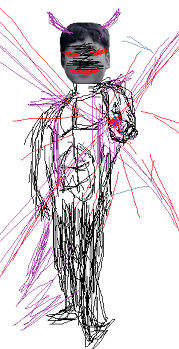
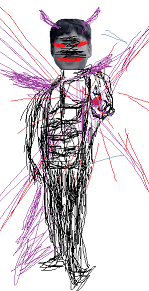
구현 : Intro화면에 Z로고 추가 & About Page 업뎃 & 규동몬 복근 강화 목적 : UI 친근함주기

diff --git a/src/pages/About.js b/src/pages/About.js
@@ -13,8 +13,10 @@ class About extends React.Component {
     const monsters = {
       쥐: require('../images/ratidle.gif'),
       좀비: require('../images/zombieidle.gif'),
+      슬라임: require('../images/moveslime.gif'),
       늑대인간: require('../images/wolfidle.gif'),
-      규동몬: require('../images/gyudongmon.gif')
+      규동몬: require('../images/gyudongmon.gif'),
+      제믹스팀: require('../images/zemixTeam.gif')
     };
 
     return (
@@ -24,7 +26,14 @@ class About extends React.Component {
           height: '600px'
         }}
       >
-        <br />
+        <h4
+          style={{
+            // position: 'absolute',
+            textAlign: 'center'
+          }}
+        >
+          게임 소개
+        </h4>
         <div
           style={{
             // color: 'white',
@@ -34,38 +43,76 @@ class About extends React.Component {
           [마왕] 규동몬의 횡포로 세계가 위험에 빠졌습니다. 전설의 제미소드를
           완성하고 규동몬을 처치해주세요!
         </div>
-        <h3
+        <h4
           style={{
             // position: 'absolute',
             textAlign: 'center'
           }}
         >
           등장인물 소개
-        </h3>
+        </h4>
         <div
           style={{
             position: 'absolute',
-            top: '20%',
-            left: '10%'
+            top: '20%'
+            // left: '10%'
           }}
         >
           <img src={player} alt="" />
           <img src={monsters['쥐']} alt="" />
           <img src={monsters['좀비']} alt="" />
+          <img src={monsters['슬라임']} alt="" />
           <img src={monsters['늑대인간']} alt="" />
           <img src={monsters['규동몬']} alt="" />
           <div />
         </div>
-
+        <h4
+          style={{
+            position: 'absolute',
+            textAlign: 'center',
+            top: '70%',
+            left: '45%'
+          }}
+        >
+          제작자의 말
+        </h4>
         <div
           style={{
             position: 'absolute',
-            left: '5%',
-            bottom: '5%'
+            // left: '%',
+
+            bottom: '-3%'
             // color: 'white'
           }}
         >
-          제작 : Team Zemix
+          <img src={monsters['제믹스팀']} alt="" />
+        </div>
+        <div
+          style={{
+            position: 'absolute',
+            top: '80%',
+            left: '20%'
+          }}
+        >
+          안녕하세요, 팀 Zemix입니다.
+        </div>
+        <div
+          style={{
+            position: 'absolute',
+            top: '85%',
+            left: '20%'
+          }}
+        >
+          재밌는~ 게임을 만들고자 이 게임을 만들게 되었습니다.
+        </div>
+        <div
+          style={{
+            position: 'absolute',
+            top: '90%',
+            left: '20%'
+          }}
+        >
+          첫 작품이므로 부족함이 많지만 재밌게~ 플레이해주세요!
         </div>
         <Link
           style={{

diff --git a/src/pages/Secession.js b/src/pages/Secession.js
@@ -1,3 +1,4 @@
+/* eslint-disable global-require */
 import React from 'react';
 import { Link } from 'react-router-dom';
 
@@ -18,6 +19,8 @@ class Secession extends React.Component {
 
   render() {
     const { gotoLogin } = this.props;
+    const intro = require('../images/character.gif');
+    const logo = require('../images/zemix_LOGO.png');
     return (
       <div
         style={{
@@ -28,6 +31,27 @@ class Secession extends React.Component {
           height: '550px'
         }}
       >
+        <div
+          style={{
+            position: 'absolute',
+            right: '15%',
+            top: '40%'
+          }}
+        >
+          {/* <img className="intro" src="character.gif" alt="" /> */}
+          <img src={intro} alt="" />
+          <div>규동몬으로부터</div>
+          <div>세상을 구하자!</div>
+        </div>
+        <div
+          style={{
+            position: 'absolute',
+            left: '15%',
+            top: '40%'
+          }}
+        >
+          <img src={logo} alt="" />
+        </div>
         <h2>Zeminia</h2>
 
         <form

diff --git a/src/pages/Login.js b/src/pages/Login.js
@@ -19,7 +19,7 @@ class Login extends React.Component {
   render() {
     const { login } = this.props;
     const intro = require('../images/character.gif');
-    // const logo = require('../images/zemix_LOGO.png');
+    const logo = require('../images/zemix_LOGO.png');
     return (
       <div
         style={{
@@ -41,6 +41,15 @@ class Login extends React.Component {
           <img src={intro} alt="" />
           <div>규동몬으로부터</div>
           <div>세상을 구하자!</div>
+        </div>
+        <div
+          style={{
+            position: 'absolute',
+            left: '15%',
+            top: '40%'
+          }}
+        >
+          <img src={logo} alt="" />
         </div>
         <div
           style={{

diff --git a/src/pages/Signup.js b/src/pages/Signup.js
@@ -21,6 +21,7 @@ class Signup extends React.Component {
   render() {
     const { signup } = this.props;
     const intro = require('../images/character.gif');
+    const logo = require('../images/zemix_LOGO.png');
     return (
       <div
         style={{
@@ -42,6 +43,15 @@ class Signup extends React.Component {
           <img src={intro} alt="" />
           <div>규동몬으로부터</div>
           <div>세상을 구하자!</div>
+        </div>
+        <div
+          style={{
+            position: 'absolute',
+            left: '15%',
+            top: '40%'
+          }}
+        >
+          <img src={logo} alt="" />
         </div>
         <h2>Zeminia</h2>
         <form

diff --git a/src/components/BattleView.js b/src/components/BattleView.js
@@ -9,6 +9,7 @@ const playerAttack = require('../images/playerattack.gif');
 const monsters = {
   쥐: require('../images/ratidle.gif'),
   좀비: require('../images/zombieidle.gif'),
+  슬라임: require('../images/slime_move.gif'),
   늑대인간: require('../images/wolfidle.gif'),
   규동몬: require('../images/gyudongmon.gif')
 };
@@ -16,6 +17,7 @@ const monsters = {
 const monstersAttack = {
   쥐: require('../images/ratattack.png'),
   좀비: require('../images/zombieattack.png'),
+  슬라임: require('../images/slime160.png'),
   늑대인간: require('../images/wolfattack.png'),
   규동몬: require('../images/gyudongmonattack.png')
 };
